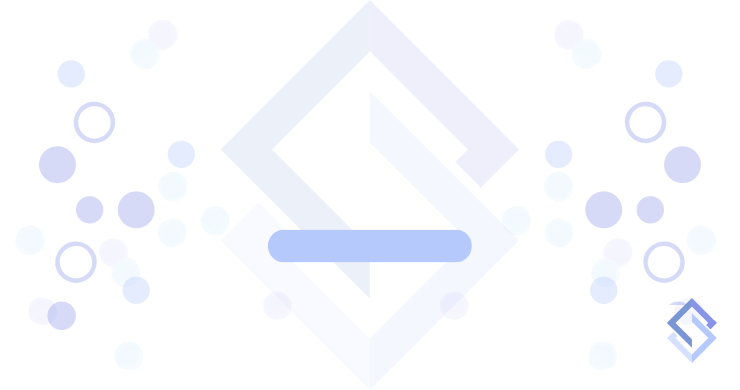
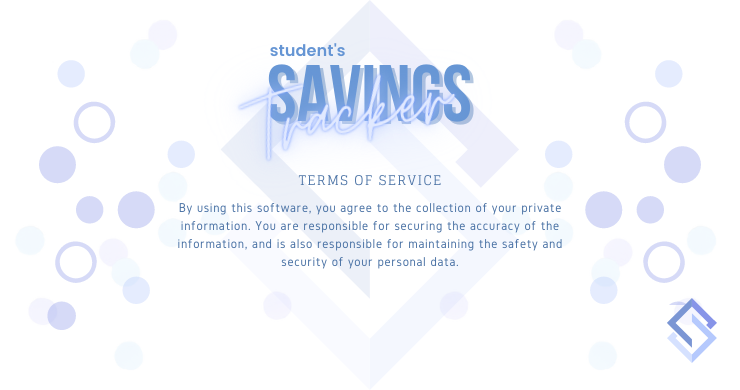
[GUI] Optimize tos gui and [REMOVE] json script for tos

Changed region(s): [[0.3108, 0.0923, 0.6527, 0.4], [0.2176, 0.5231, 0.777, 0.6769], [0.4041, 0.4308, 0.5905, 0.4923]]

diff --git a/app/tos.py b/app/tos.py
@@ -1,9 +1,6 @@
 from operator import is_
 from tkinter import *
-from PIL import ImageTk, Image
 import tkinter.messagebox
-import json
-import os
 
 # to create window
 root  = Tk()
@@ -14,11 +11,8 @@ root.geometry("740x390") # orig window 700x350
 # to make window non-resizable
 root.resizable(False, False) # set to true to make window resizable
 # define background image
-_file = Image.open("app/res/tos.png").resize((740, 390), Image.ANTIALIAS)
-_bg = ImageTk.PhotoImage(_file)
-_set = tkinter.Label(image=_bg)
-_set.image = _bg
-_set.place(x=0, y=0)
+bg = PhotoImage(file="app/res/tos.png")
+_bg = Label(root, image=bg).place(x=0, y=0, relwidth=1, relheight=1)
 
 def destroy(m):
     tkinter.messagebox.showinfo('Terms of Service', m)
@@ -31,24 +25,11 @@ def destroy(m):
 get_accept_button = PhotoImage(file='app/res/accept.png')
 bg_button = Label(image=get_accept_button)
 
-try:
-    print('\n RETRIEVING TOS')
-    to_file = os.getcwd() + "\\app\\" # to get current directory and set path to app folder
-    with open(to_file + "script.json", "r") as open_tos: # to open json file
-        get_tos = json.load(open_tos)
-        for x in get_tos:
-            x_tos = x['tos']
-    # to create label
-    print(' WAITING FOR ACCEPT TOS')
-    _w_s_01 = Label(root,text="").pack(side=TOP,pady=20) # blank label to serve as divider
-    _title = Label(root,text=x_tos['title'],font=("Arial",18,"bold"),bg='white',fg='#7B96D4').pack(side=TOP,pady=12) # orig font 17
-    _tos = Label(root,text=x_tos['tos'],font=("Arial",10),bg='white',fg='#4152B3').pack(side=TOP,pady=1) # orig font 10
-    _tos = Label(root,text=x_tos['tos_text'],font=("Arial",10),bg='white',fg='#4152B3').pack(side=TOP,pady=1) # orig font 8 : pady 0
-    _accept = Button(root,image=get_accept_button,font=("Arial", 10),borderwidth=0,bg='white',command=lambda m="You accepted terms of service": destroy(m)).pack(side=TOP,pady=30) # orig font 9 : pady 30
+print('\n RETRIEVING TOS')
 
-except:
-    for x in range(0,5):
-        print("\n ERROR: TOS.JSON COULDN'T BE FOUND. PLEASE CHECK IF EXIST IN APP FOLDER")
+# to create label
+print(' WAITING FOR ACCEPT TOS')
+_accept = Button(root,image=get_accept_button,font=("Arial", 10),borderwidth=0,bg='white',command=lambda m="You accepted terms of service": destroy(m)).pack(side=BOTTOM,pady=60) # orig font 9 : pady 30
 
 # to run in loop
 root.mainloop()
